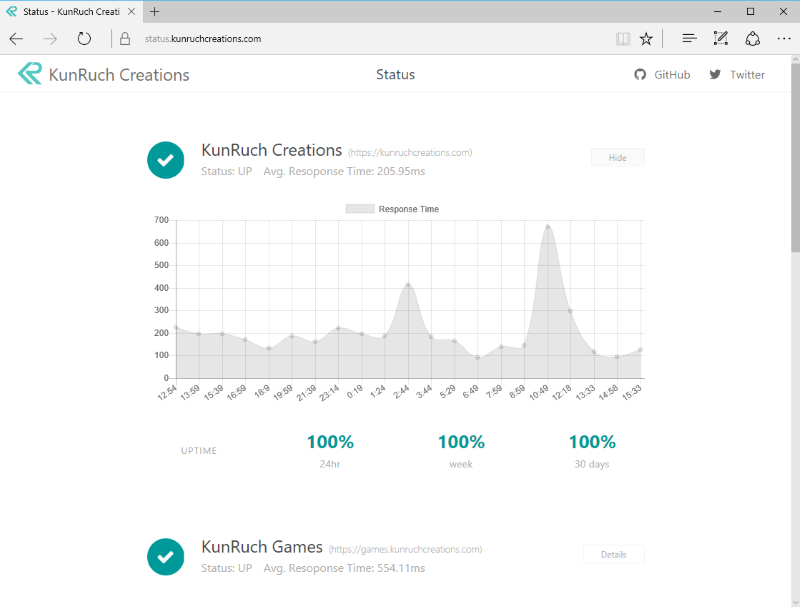
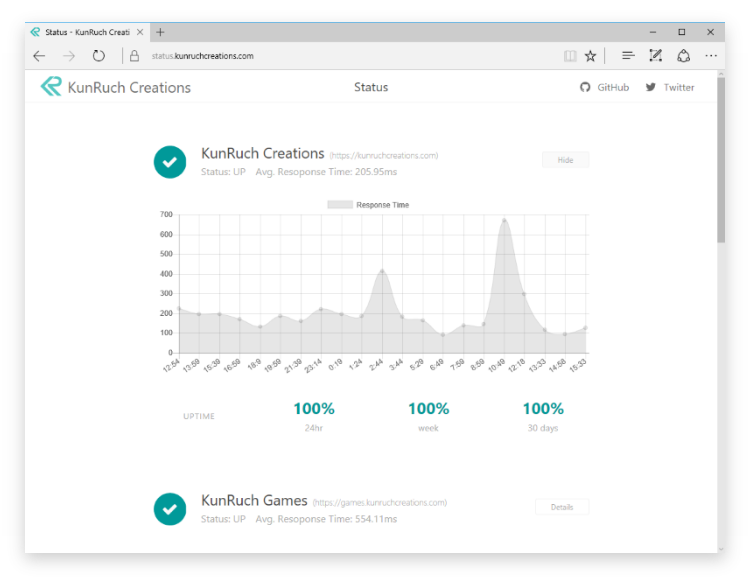
Adding image with box-shadow

diff --git a/README.md b/README.md
@@ -4,9 +4,13 @@
 
 Displays monitoring information of all sites of KunRuch Creations via UptimeRobot.
 
+<p align="center">
 <a href="https://status.kunruchcreations.com/">
-<img src="https://status.kunruchcreations.com/img/featured.png" style="margin:0 auto;box-shadow: 0px 6px 25px 0px rgba(85,85,85,0.3);"></img>
+<img src="https://status.kunruchcreations.com/img/featured.png"></img>
+<br>
+View Site
 </a>
+</p>
 
 Current version is built with vue.js.  
 If you are interested in earlier version which was built with jQuery and handlbars then kindly see [v1.0](https://github.com/kunruch/status.kunruchcreations.com/tree/v1.0)
